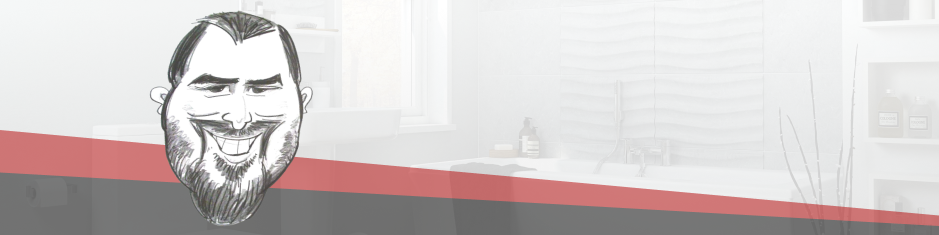
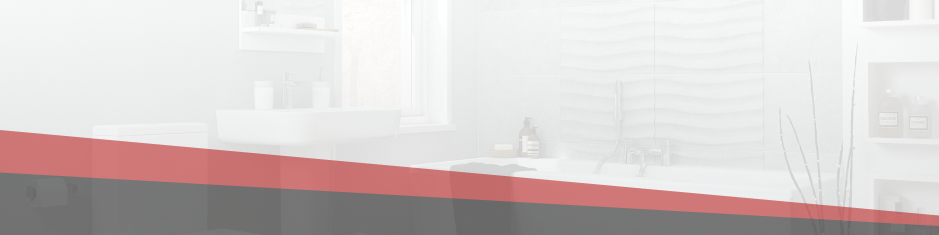
multiple header structure and styling changes

Changed region(s): [[0.1544, 0.0298, 0.3397, 0.983]]

diff --git a/index.html b/index.html
@@ -41,25 +41,29 @@
     <!-- Body -->
     <body>
         <div class="wrapper">
+            <!-- <p>Test</p> -->
             <!-- NTS Use unique IDs for each page -->
-            <header role="banner">
+            <header class="header" role="banner">
+                <!-- <p>Test</p> -->
+                <img class="header-cartoon" src="images/header-cartoon.png" alt="caricature">
+                <!-- <p>Test</p> -->
                 <div class="header-info">
-                    <a href="index.html"><img src="images/business-name.svg" alt="Joint Seal Queensland"></a>
+                    <img src="images/header-business-name.svg" alt="Joint Seal Queensland">
                     <div class="header-contact-info">
                         <p class="header-mobile">0422 508 313</p>
                         <p class="header-email">info@jointsealqld.com.au</p>
                     </div>
-                    <nav role="navigation">
+                    <nav class="header-nav" role="navigation">
                         <ul>
-                            <li><a href="index.html">HOME</a></li>
-                            <li><a href="services.html">SERVICES</a></li>
-                            <li><a href="projects.html">PROJECTS</a></li>
-                            <li><a href="contact.html">CONTACT</a></li>
+                            <li class="nav-list-item"><a href="index.html">HOME</a></li>
+                            <li class="nav-list-item"><a href="services.html">SERVICES</a></li>
+                            <li class="nav-list-item"><a href="projects.html">PROJECTS</a></li>
+                            <li class="nav-list-item"><a href="contact.html">CONTACT</a></li>
                         </ul>
                     </nav>
                 </div>
             </header>
-
+<!-- 
             <main role="main">
                 <article>
                     <section>
@@ -74,8 +78,8 @@
                 <aside>
 
                 </aside>
-            </main>
-
+            </main> -->
+<!-- 
             <section>
                 <h1>We can help, let's talk about your project</h1>
                 <h1>Give us a call.</h1>
@@ -85,9 +89,9 @@
                 <h1>Send us an email via our website.</h1>
                 <p>Please provide your preferred contact details (email address or phone number or both).</p>
                 <form action="/contact.php" method="POST">
-                    <input type="text" name="name" aria-label="Enter name" placeholder="Name" required>
+                    <input type="text" name="name" aria-label="Enter name" placeholder="Name" required> -->
                     <!-- Needs to be configured to have email OR phone number required -->
-                    <input type="email" name="email" aria-label="Enter email" placeholder="Email">
+                    <!-- <input type="email" name="email" aria-label="Enter email" placeholder="Email">
                     <input type="text" name="tel" aria-label="Enter telephone number" placeholder="Phone Number">
                     <textarea name="message" aria-label="Enter message" placeholder="Message" required></textarea>
                     <input type="submit" name="Send Message">
@@ -114,7 +118,8 @@
                     </ul>
                     <p>Website developed by Chris Howard</p>
                 </section>
-            </footer>
+            </footer> -->
+
         </div>
     </body>
 </html>

diff --git a/css/style.css b/css/style.css
@@ -15,6 +15,12 @@
 }
 
 /* Show div id/class names for clarity purposes when previewing */
+*:before {
+    content: attr(class);
+    position: absolute;
+    color: green;
+}
+
 *:after {
     content: attr(class);
     position: absolute;
@@ -28,39 +34,54 @@ body {
 .wrapper {
     margin: 0 auto;
     width: 939px;
-    max-width: 100%;
-    position: relative;
+    /* padding-top: 100px; */
+    /* height: 500px; */
+    /* max-width: 100%; */
+    /* position: relative; */
 }
 
 header {
     /* min-width: 70%; */
-    padding-top: 25%;
-    max-width: 100%;
-    max-height: 235px;
+    /* padding-top: 25%; */
+    /* height: 235px; */
+    /* max-width: 100%; */
     /* margin: 0 auto; */
     /* padding-top: 100px; */
-    background-image: url("../images/header-bg.png");
-    background-repeat: no-repeat;
-    background-size: contain;
+    /* background: url("../images/header-bg.png") no-repeat top center; */
+    /* display: inline-; */
+    /* width: 939px; */
+    /* background: url("../images/header-bg.png"); */
+    /* background-repeat: no-repeat; */
+    /* background-size: contain; */
     /* height: 235px; */
-    width: 939px;
     /* background-color: #fff; */
-    position: absolute;
+    /* position: relative; */
+}
+
+.header-cartoon {
+    width: 178px;
+    height: 227px;
+    display: inline;
+    /* display: inline-block; */
+    /* float: left; */
+    /* position: absolute; */
 }
 
 .header-info {
     /* width: 494px; */
-    width: 53%;
-    margin-left: 32%;
+    /* height: 100px; */
+    /* float: left; */
+    display: inline-block;
+    /* margin-left: 32%; */
     /* margin-top: 9%; */
     /* padding-top: 9%; */
     /* margin-top: 1%; */
-    position: absolute;
-    top: 0;
-    left: 0;
-    bottom: 0;
-    right: 0;
-    padding-top: 25%;
+    position: relative;
+    /* top: 0; */
+    /* left: 0; */
+    /* bottom: 0; */
+    /* right: 0; */
+    /* padding-top: 25%; */
     /* float: left; */
 }
 
@@ -68,21 +89,41 @@ header {
     /* border: 1px solid grey; */
     /* padding-top: 4%; */
     /* width: 93%; */
-    position: absolute;
-    top: 0;
-    left: 0;
-    bottom: 0;
-    right: 0;
-    display: block;
-    margin: 0 auto;
-    margin-top: 4%;
+    /* position: absolute; */
+    /* top: 0; */
+    /* left: 0; */
+    /* bottom: 0; */
+    /* right: 0; */
+    /* display: block; */
+    /* margin: 0 auto; */
+    /* margin-top: 4%; */
     /* position: relative; */
 }
 
 .header-contact-info {
-    position: absolute;
-    top: 0;
-    left: 0;
-    bottom: 0;
-    right: 0;
+    /* position: absolute; */
+    /* top: 0; */
+    /* left: 0; */
+    /* bottom: 0; */
+    /* right: 0; */
+}
+
+.header-mobile {
+    display: inline;
+}
+
+.header-email {
+    display: inline;
+    float: right;
+}
+
+.nav-list-item {
+    display: inline-block;
+    width: 23.6%;
+    text-align: center;
+    /* margin: 0 1em; */
+}
+
+.header-nav {
+    width: 100%;
 }
